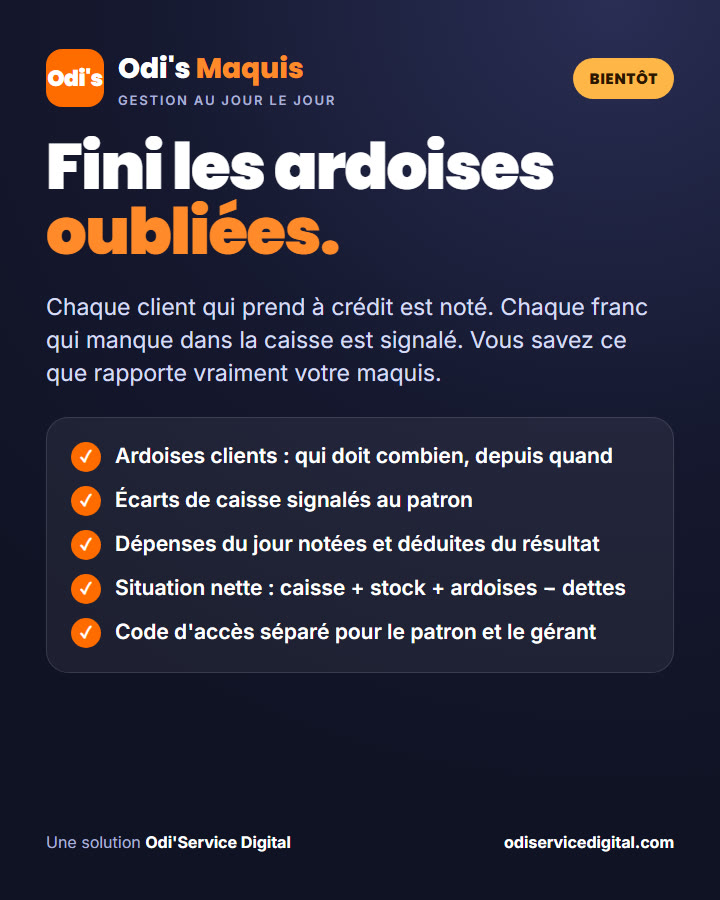
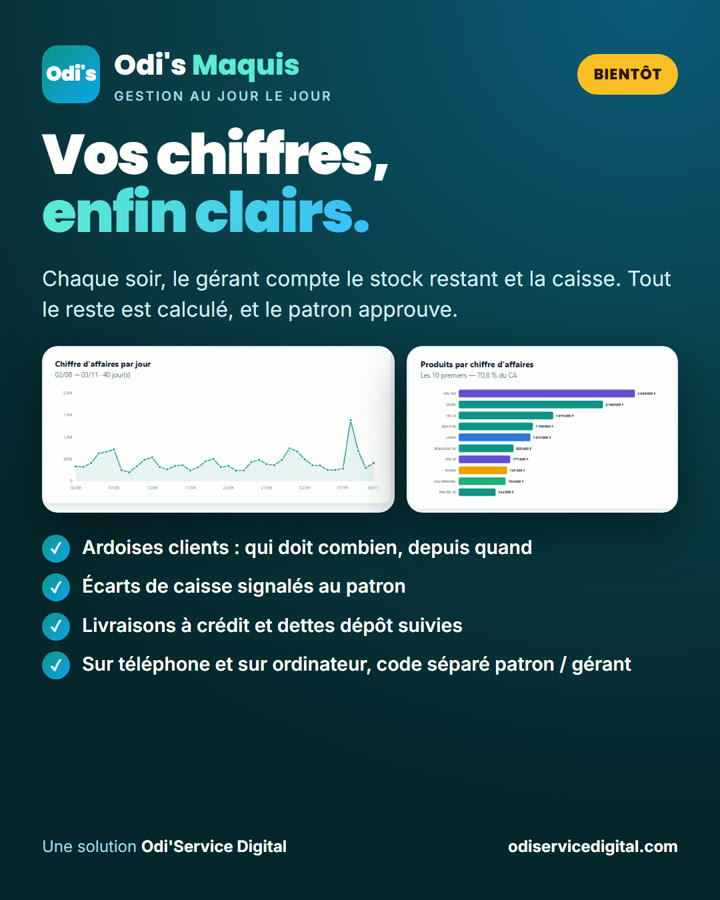
Sauvegarde du 26/10/2026

diff --git a/index.html b/index.html
@@ -129,7 +129,7 @@
       </div>
       <div class="p-body">
         <div>
-          <p data-i18n="p4.desc">Pour les patrons et patronnes de maquis, bars, caves et buvettes : la caisse, le stock de boissons et les ardoises des clients suivis chaque jour sur le téléphone. Vous savez ce que rapporte vraiment votre établissement.</p>
+          <p data-i18n="p4.desc">Pour les patrons et patronnes de maquis, bars, caves et buvettes : la caisse, le stock de boissons et les ardoises des clients suivis chaque jour, sur le téléphone ou l'ordinateur. Vous savez ce que rapporte vraiment votre établissement.</p>
           <ul class="ticks">
             <li data-i18n="p4.f1">Caisse du matin et clôture du soir, écart de caisse calculé tout seul</li>
             <li data-i18n="p4.f2">Stock des boissons, livraisons et produits qui dorment</li>
@@ -144,7 +144,7 @@
         </div>
         <div class="shots">
           <img src="img/maquis-promo-1.jpg" alt="Odi's Maquis : votre maquis sous contrôle" loading="lazy" width="720" height="900">
-          <img src="img/maquis-promo-2.jpg" alt="Odi's Maquis : fini les ardoises oubliées" loading="lazy" width="720" height="900">
+          <img src="img/maquis-promo-2.jpg" alt="Odi's Maquis : vos chiffres enfin clairs" loading="lazy" width="720" height="900">
         </div>
       </div>
     </article>

diff --git a/app.js b/app.js
@@ -26,7 +26,7 @@ const EN = {
   'p3.f5': 'Works offline, your notes stay on your phone',
   'p3.cta': 'Coming soon', 'p3.notify': 'Get notified at launch',
   'p4.tag': 'Day-to-day management for bars, maquis and drink shops', 'p4.badge': 'Coming soon',
-  'p4.desc': 'For owners of maquis, bars, drink shops and kiosks: the till, the drinks stock and customer tabs tracked every day on the phone. You know what your place really earns.',
+  'p4.desc': 'For owners of maquis, bars, drink shops and kiosks: the till, the drinks stock and customer tabs tracked every day, on the phone or the computer. You know what your place really earns.',
   'p4.f1': 'Morning float and evening closing, till gap calculated automatically',
   'p4.f2': 'Drinks stock, deliveries and slow-moving products',
   'p4.f3': 'Customer tabs and supplier debts: who owes what, since when',
